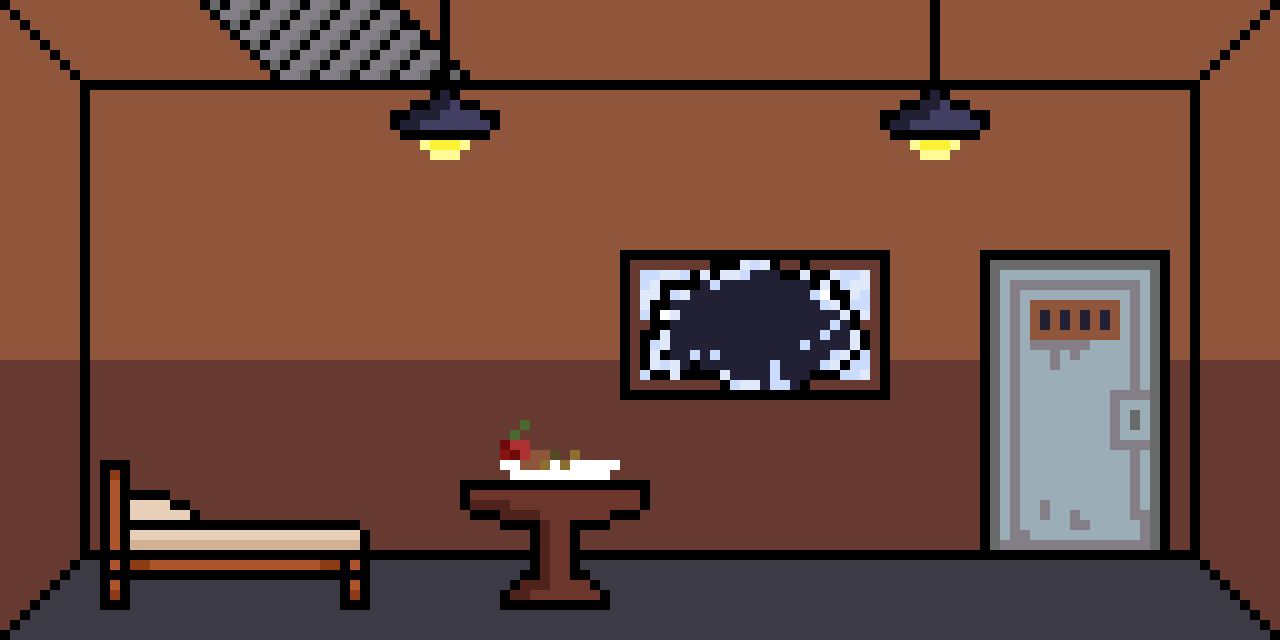
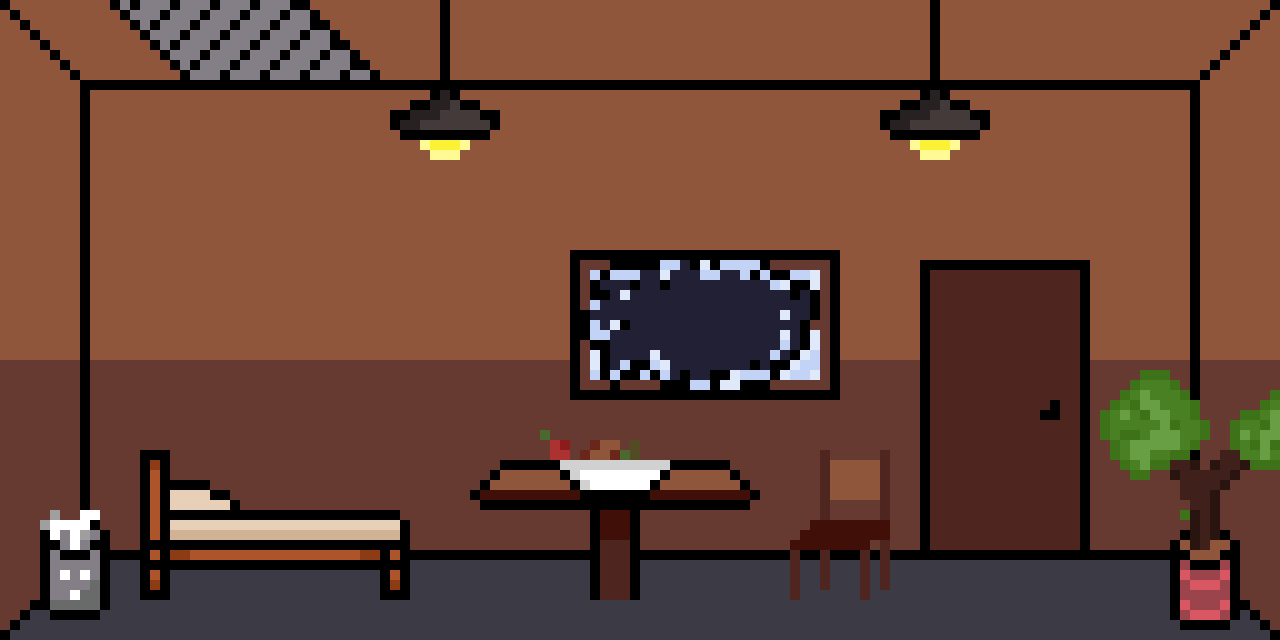
FEAT: use action gemaakt

diff --git a/src/api/src/game-implementation/rooms/StarterRoom.ts b/src/api/src/game-implementation/rooms/StarterRoom.ts
@@ -12,6 +12,9 @@ import { HallwayRoom } from "./HallwayRoom";
 import { PickUpAction } from "../actions/PickUpAction";
 import { PlayerSession } from "../types";
 import { VentsRoom } from "./VentsRoom";
+import { VentItem } from "../items/VentItem";
+import { WindowItem } from "../items/WindowItem";
+import { UseAction } from "../actions/UseAction";
 
 export class StarterRoom extends Room implements Simple {
     public static readonly Alias: string = "starterroom";
@@ -26,8 +29,27 @@ export class StarterRoom extends Room implements Simple {
 
     public images(): string[] {
         const playerSession: PlayerSession = gameService.getPlayerSession();
-        const result: string[] = ["starterroom/StarterRoomBackground"];
+        const result: string[] = [];
 
+        // Choose background based on which access points are unlocked
+        if (playerSession.windowBroken && playerSession.ventUnlocked) {
+            // Both unlocked
+            result.push("starterroom/StarterRoomBackground4");
+        }
+        else if (playerSession.windowBroken) {
+            // Only hallway unlocked
+            result.push("starterroom/StarterRoomBackground2");
+        }
+        else if (playerSession.ventUnlocked) {
+            // Only vents unlocked
+            result.push("starterroom/StarterRoomBackground3");
+        }
+        else {
+            // Nothing unlocked
+            result.push("starterroom/StarterRoomBackground");
+        }
+
+        // Add pickable items if they haven't been picked up yet
         if (!playerSession.pickedUpFork) {
             result.push("starterroom/StarterRoomFork");
         }
@@ -57,32 +79,48 @@ export class StarterRoom extends Room implements Simple {
         if (!playerSession.pickedUpPainting) {
             result.push(new PaintingItem());
         }
+
+        // Always add the vent and window as interaction objects
+        result.push(new VentItem());
+        result.push(new WindowItem());
+
         return result;
     }
 
     public actions(): Action[] {
-        return [
+        const playerSession: PlayerSession = gameService.getPlayerSession();
+        const actions: Action[] = [
             new ExamineAction(),
-            new SimpleAction("enter-hallway", "Enter Hallway"),
-            new SimpleAction("enter-vent", "Enter Vent"),
             new PickUpAction(),
+            new UseAction(),
         ];
+
+        // Only show these buttons if the corresponding objects are unlocked
+        if (playerSession.ventUnlocked) {
+            actions.push(new SimpleAction("enter-vent", "Enter Vent"));
+        }
+
+        if (playerSession.windowBroken) {
+            actions.push(new SimpleAction("enter-hallway", "Enter Hallway"));
+        }
+
+        return actions;
     }
 
     public simple(alias: string): ActionResult | undefined {
-        let room: Room | undefined;
         switch (alias) {
-            case "enter-hallway":
-                room = new HallwayRoom();
-                break;
-            case "enter-vent":
-                room = new VentsRoom();
-                break;
+            case "enter-hallway": {
+                const room = new HallwayRoom();
+                gameService.getPlayerSession().currentRoom = room.alias;
+                return room.examine();
+            }
+            case "enter-vent": {
+                const room = new VentsRoom();
+                gameService.getPlayerSession().currentRoom = room.alias;
+                return room.examine();
+            }
         }
-        if (room) {
-            gameService.getPlayerSession().currentRoom = room.alias;
-            return room.examine();
-        }
+
         return undefined;
     }
 }

diff --git a/src/api/src/game-implementation/services/GameService.ts b/src/api/src/game-implementation/services/GameService.ts
@@ -36,6 +36,9 @@ import { GymFreakCharacter } from "../characters/GymFreakCharacter";
 import { SulfuricAcidItem } from "../items/SulfuricAcidItem";
 import { GlassBeakerItem } from "../items/GlassBeakerItem";
 import { LabRoom } from "../rooms/LabRoom";
+import { VentItem } from "../items/VentItem";
+import { WindowItem } from "../items/WindowItem";
+import { UseAction } from "../actions/UseAction";
 
 /**
  * Implementation of the game service used to operate the game engine
@@ -60,7 +63,6 @@ export class GameService extends BaseGameService<PlayerSession> {
         this.registerGameObject(VentsRoom);
         this.registerGameObject(LabRoom);
 
-
         // Items
         this.registerGameObject(TitleItem);
         this.registerGameObject(KnifeItem);
@@ -74,8 +76,10 @@ export class GameService extends BaseGameService<PlayerSession> {
         this.registerGameObject(KeypadStorageItem);
         this.registerGameObject(ForkItem);
         this.registerGameObject(PaintingItem);
-        this.registerGameObject(SulfuricAcidItem)
-        this.registerGameObject(GlassBeakerItem)
+        this.registerGameObject(SulfuricAcidItem);
+        this.registerGameObject(GlassBeakerItem);
+        this.registerGameObject(VentItem);
+        this.registerGameObject(WindowItem);
 
         // Characters
         this.registerGameObject(cookCharacter);
@@ -96,6 +100,7 @@ export class GameService extends BaseGameService<PlayerSession> {
 
         // Actions
         this.registerAction(PickUpAction);
+        this.registerAction(UseAction);
     }
 
     /**
@@ -122,6 +127,8 @@ export class GameService extends BaseGameService<PlayerSession> {
             helpedGymFreak: false,
             pickedUpGlassBeaker: false,
             pickedUpSulfuricAcid: false,
+            ventUnlocked: false,
+            windowBroken: false,
         };
     }
 

diff --git a/src/api/src/game-implementation/items/VentItem.ts b/src/api/src/game-implementation/items/VentItem.ts
@@ -6,30 +6,30 @@ import { PlayerSession } from "../types";
 import { gameService } from "../../global";
 import { Usable } from "../actions/UseAction";
 
-export class WindowItem extends Item implements Examine, Usable {
-    public static readonly Alias: string = "WindowItem";
+export class VentItem extends Item implements Examine, Usable {
+    public static readonly Alias: string = "VentItem";
 
     public constructor() {
-        super(WindowItem.Alias);
+        super(VentItem.Alias);
     }
 
     public name(): string {
-        return "Window";
+        return "Vent";
     }
 
     public examine(): ActionResult | undefined {
-        return new TextActionResult(["A window leading to the hallway. It's locked."]);
+        return new TextActionResult(["A metal vent cover. It's screwed shut."]);
     }
 
     public use(): ActionResult | undefined {
         const playerSession: PlayerSession = gameService.getPlayerSession();
-        const hasPainting: boolean = playerSession.pickedUpPainting;
+        const hasFork: boolean = playerSession.pickedUpFork;
 
-        if (hasPainting) {
-            playerSession.windowBroken = true;
-            return new TextActionResult(["You throw the painting at the window, shattering it! You can now enter the hallway."]);
+        if (hasFork) {
+            playerSession.ventUnlocked = true;
+            return new TextActionResult(["You use the fork to unscrew the vent cover. You can now enter the vent."]);
         }
 
-        return new TextActionResult(["You need something heavy to break the window."]);
+        return new TextActionResult(["You need something to unscrew the vent cover."]);
     }
 }

diff --git a/src/api/src/game-implementation/actions/UseAction.ts b/src/api/src/game-implementation/actions/UseAction.ts
@@ -1,0 +1,32 @@
+import { ActionResult } from "../../game-base/actionResults/ActionResult";
+import { TextActionResult } from "../../game-base/actionResults/TextActionResult";
+import { GameObject } from "../../game-base/gameObjects/GameObject";
+import { Action } from "../../game-base/actions/Action";
+
+// Interface for items that can be used
+@Interface
+export abstract class Usable {
+    public abstract use(): ActionResult | undefined;
+}
+
+export class UseAction extends Action {
+    public static readonly Alias: string = "use";
+
+    public constructor() {
+        super(UseAction.Alias, true);
+    }
+
+    public name(): string {
+        return "Use";
+    }
+
+    public execute(_alias: string, gameObjects: GameObject[]): ActionResult | undefined {
+        const gameObject: GameObject = gameObjects[0];
+
+        if (gameObject.instanceOf(Usable)) {
+            return gameObject.use();
+        }
+
+        return new TextActionResult(["That doesn't make any sense."]);
+    }
+}

diff --git a/src/api/src/game-implementation/types.ts b/src/api/src/game-implementation/types.ts
@@ -1,8 +1,3 @@
-/**
- * Represents all data that should be stored for a player
- *
- * @remarks Can only contain JSON data types
- */
 export type PlayerSession = {
     playerOpenedDoorToStorage: boolean;
     pickedUpSugar: boolean;
@@ -25,5 +20,6 @@ export type PlayerSession = {
     pickedUpBucket: boolean;
     pickedUpGlassBeaker: boolean;
     pickedUpSulfuricAcid: boolean;
-
+    ventUnlocked: boolean;
+    windowBroken: boolean;
 };
